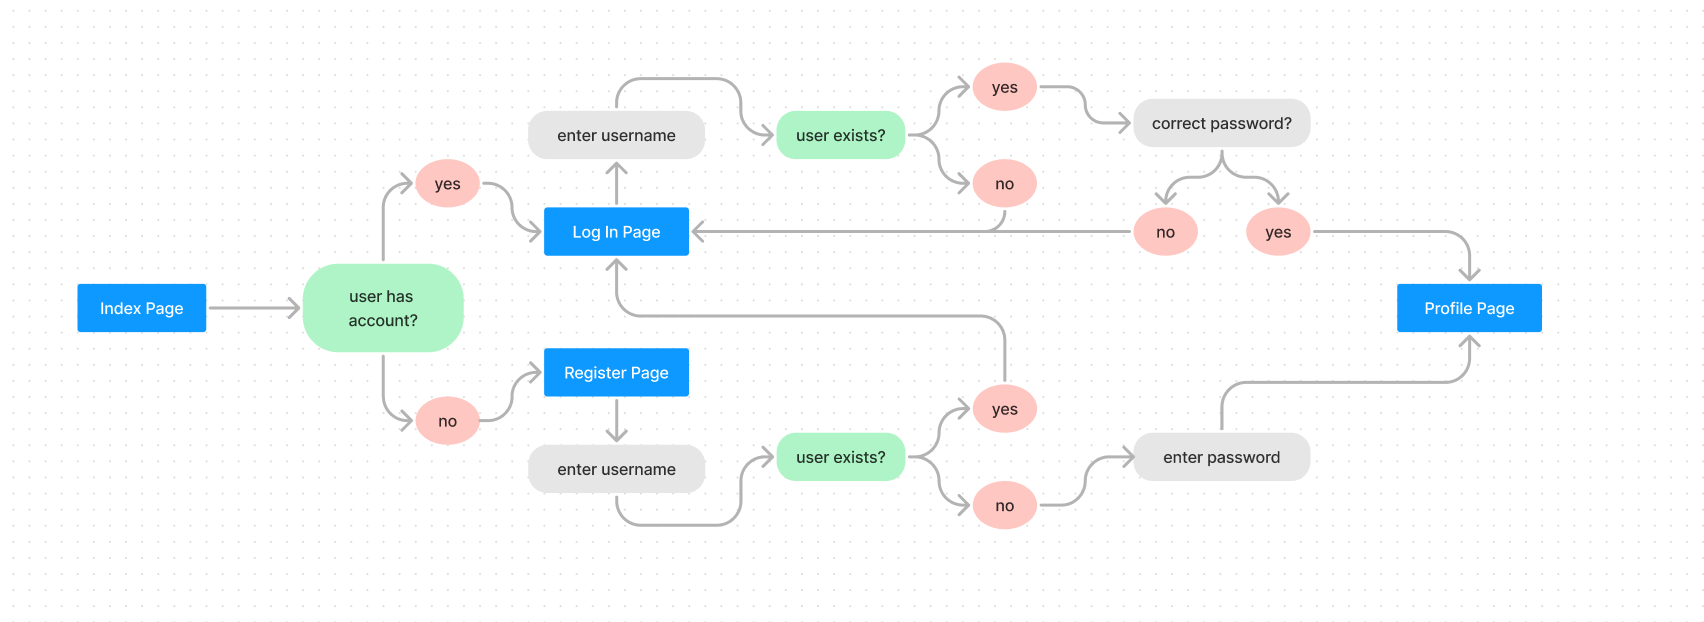
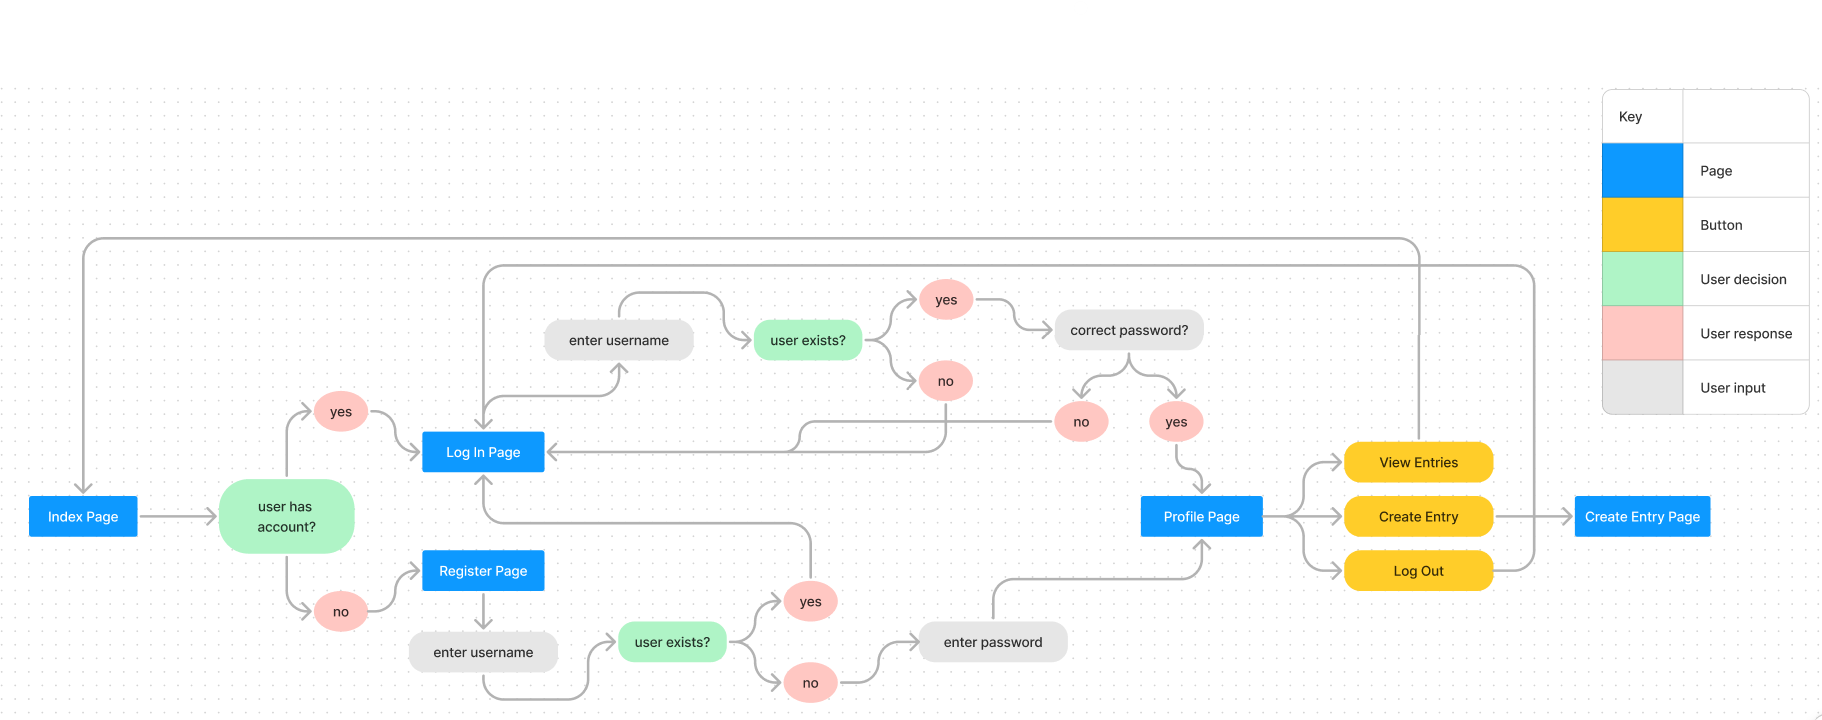
added userflow

diff --git a/README.md b/README.md
@@ -149,13 +149,10 @@ The structure plane deals with the organising and arrangment of elements within 
 
 I created a userflow diagram to show how the user will interact with each page on the site. Since my goal was for the app to be simple I tried to keep each page and action within as few clicks as possible.
 
-<details><summary>Click here for userflow</summary>
-
-![Register/Log In Userflow](/static/images/readme-img/userflow-account.png)
-
-![CRUD Userflow](link)
-
-</details>
+|Userflow|Name|Details|
+|---|---|---|
+|![Register/Log In Userflow](/static/images/readme-img/userflow-account.png)|Register and Log In Userflow|A simple view of the users pathway to create an account or loggin into a previously registered account.|
+|![CRUD Userflow](/static/images/readme-img/userflow-crud.png)|CRUD Userflow|A simple view of the users pathway to create, edit and delete entries.|
 
 ### 2.4 Skeleton
 This plane is a more refined view of the user interface. Looking at the layout and visual hierarchy to ensure the site is both visually appealing and functional. I created a set of wireframes for different screen sizes, this is a simplified version of the final product, removing colour, typography, imagery to create a basic view of website and establish the layout.
